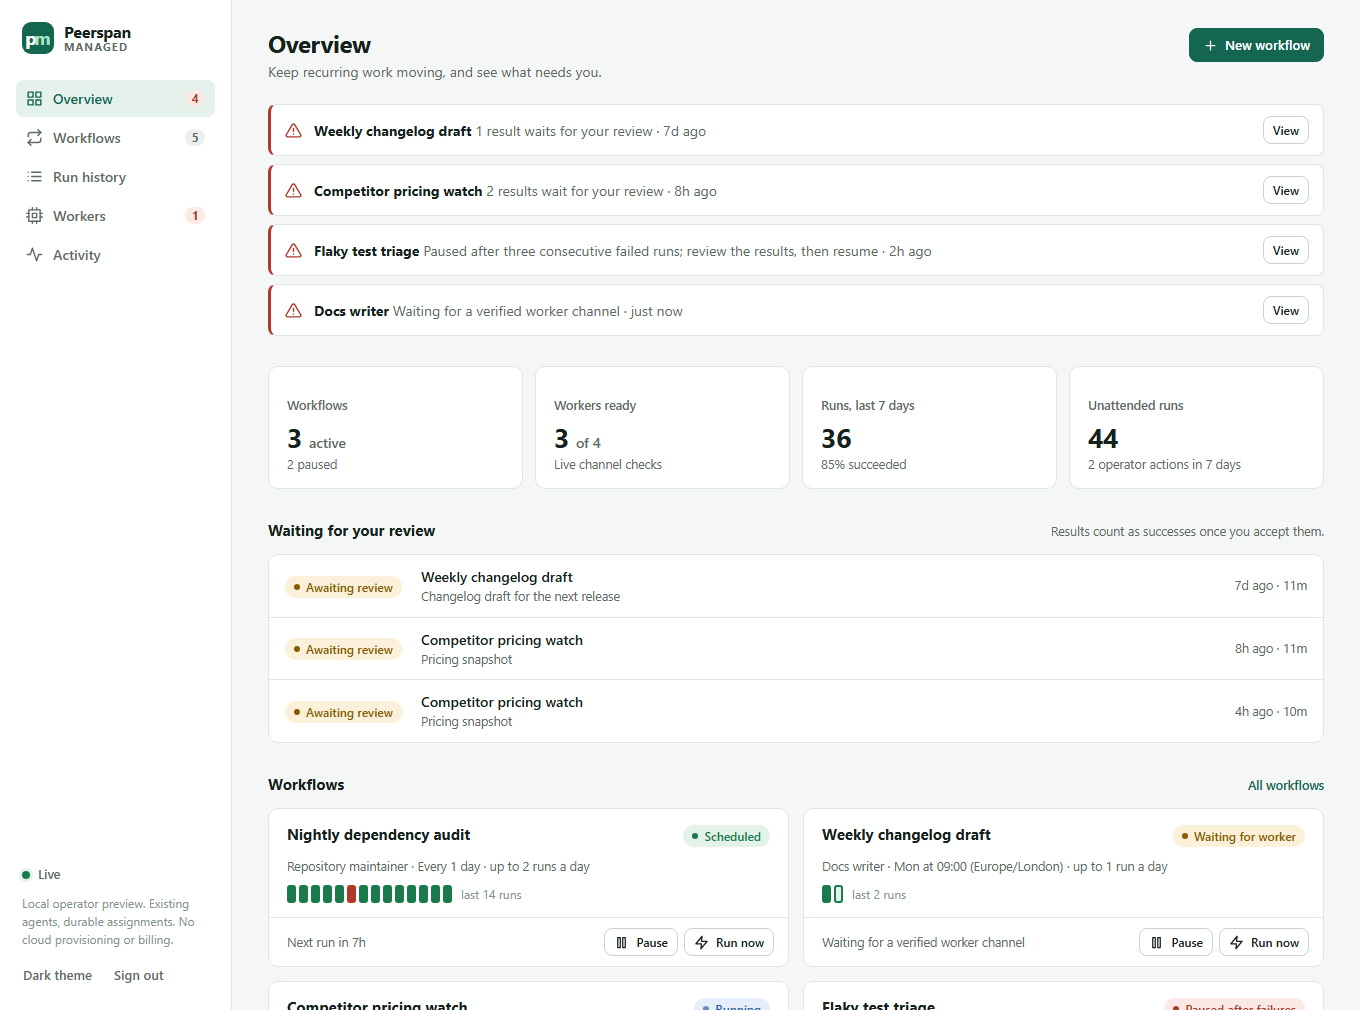
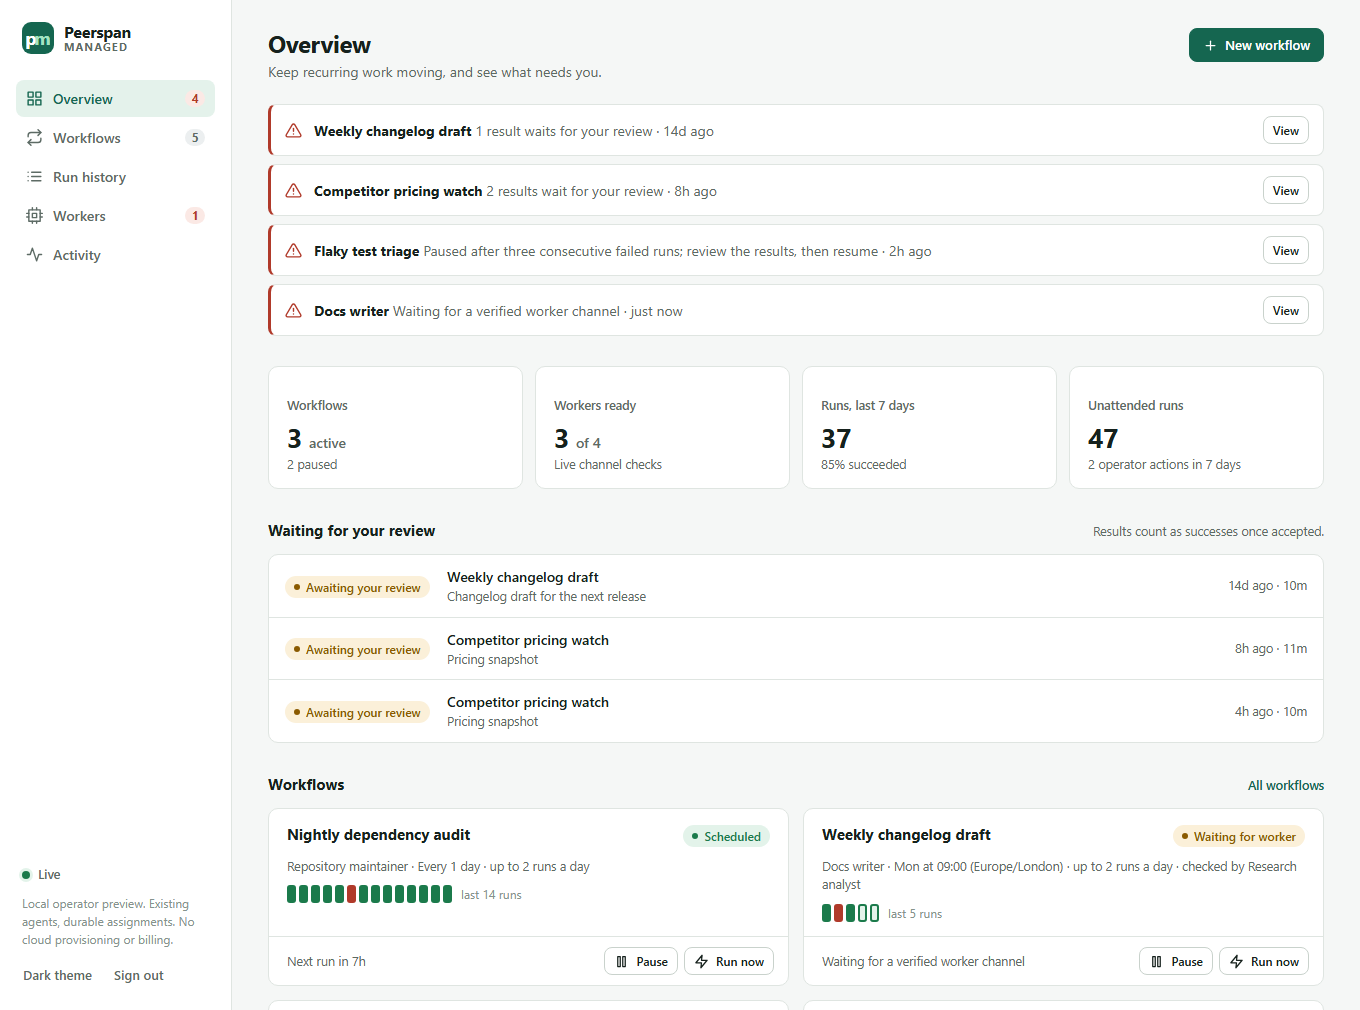
Show revision 4 in the operator guide's screenshots

diff --git a/managed/README.md b/managed/README.md
@@ -6,7 +6,7 @@ keeps every task identity and result across restarts, and shows what needs you.
 The Peerspan daemon and each owner's access rules stay the authority for
 execution: this application only invokes the owner CLI on this machine.
 
-![The console overview: attention items, results waiting for review, reliability figures and workflows on intervals and schedules](assets/console-overview.png)
+![The console overview: attention items, results waiting for review, reliability figures, and workflows on intervals and schedules, one checked by a reviewer agent](assets/console-overview.png)
 
 The picture shows scripted demonstration data, not real agent work.
 
@@ -148,6 +148,10 @@ reviews go ahead before new runs start. Reviews continue while a workflow is
 paused or archived, because they concern work already done. A reviewer agent's
 verdict is another agent's judgment; it is no more a guarantee than the
 worker's own report.
+
+![A run rejected by its reviewer agent: the result, the reviewer's reasons, the rework it led to and the review task](assets/console-review.png)
+
+Scripted demonstration data, not real agent work.
 
 ## Runs
 
